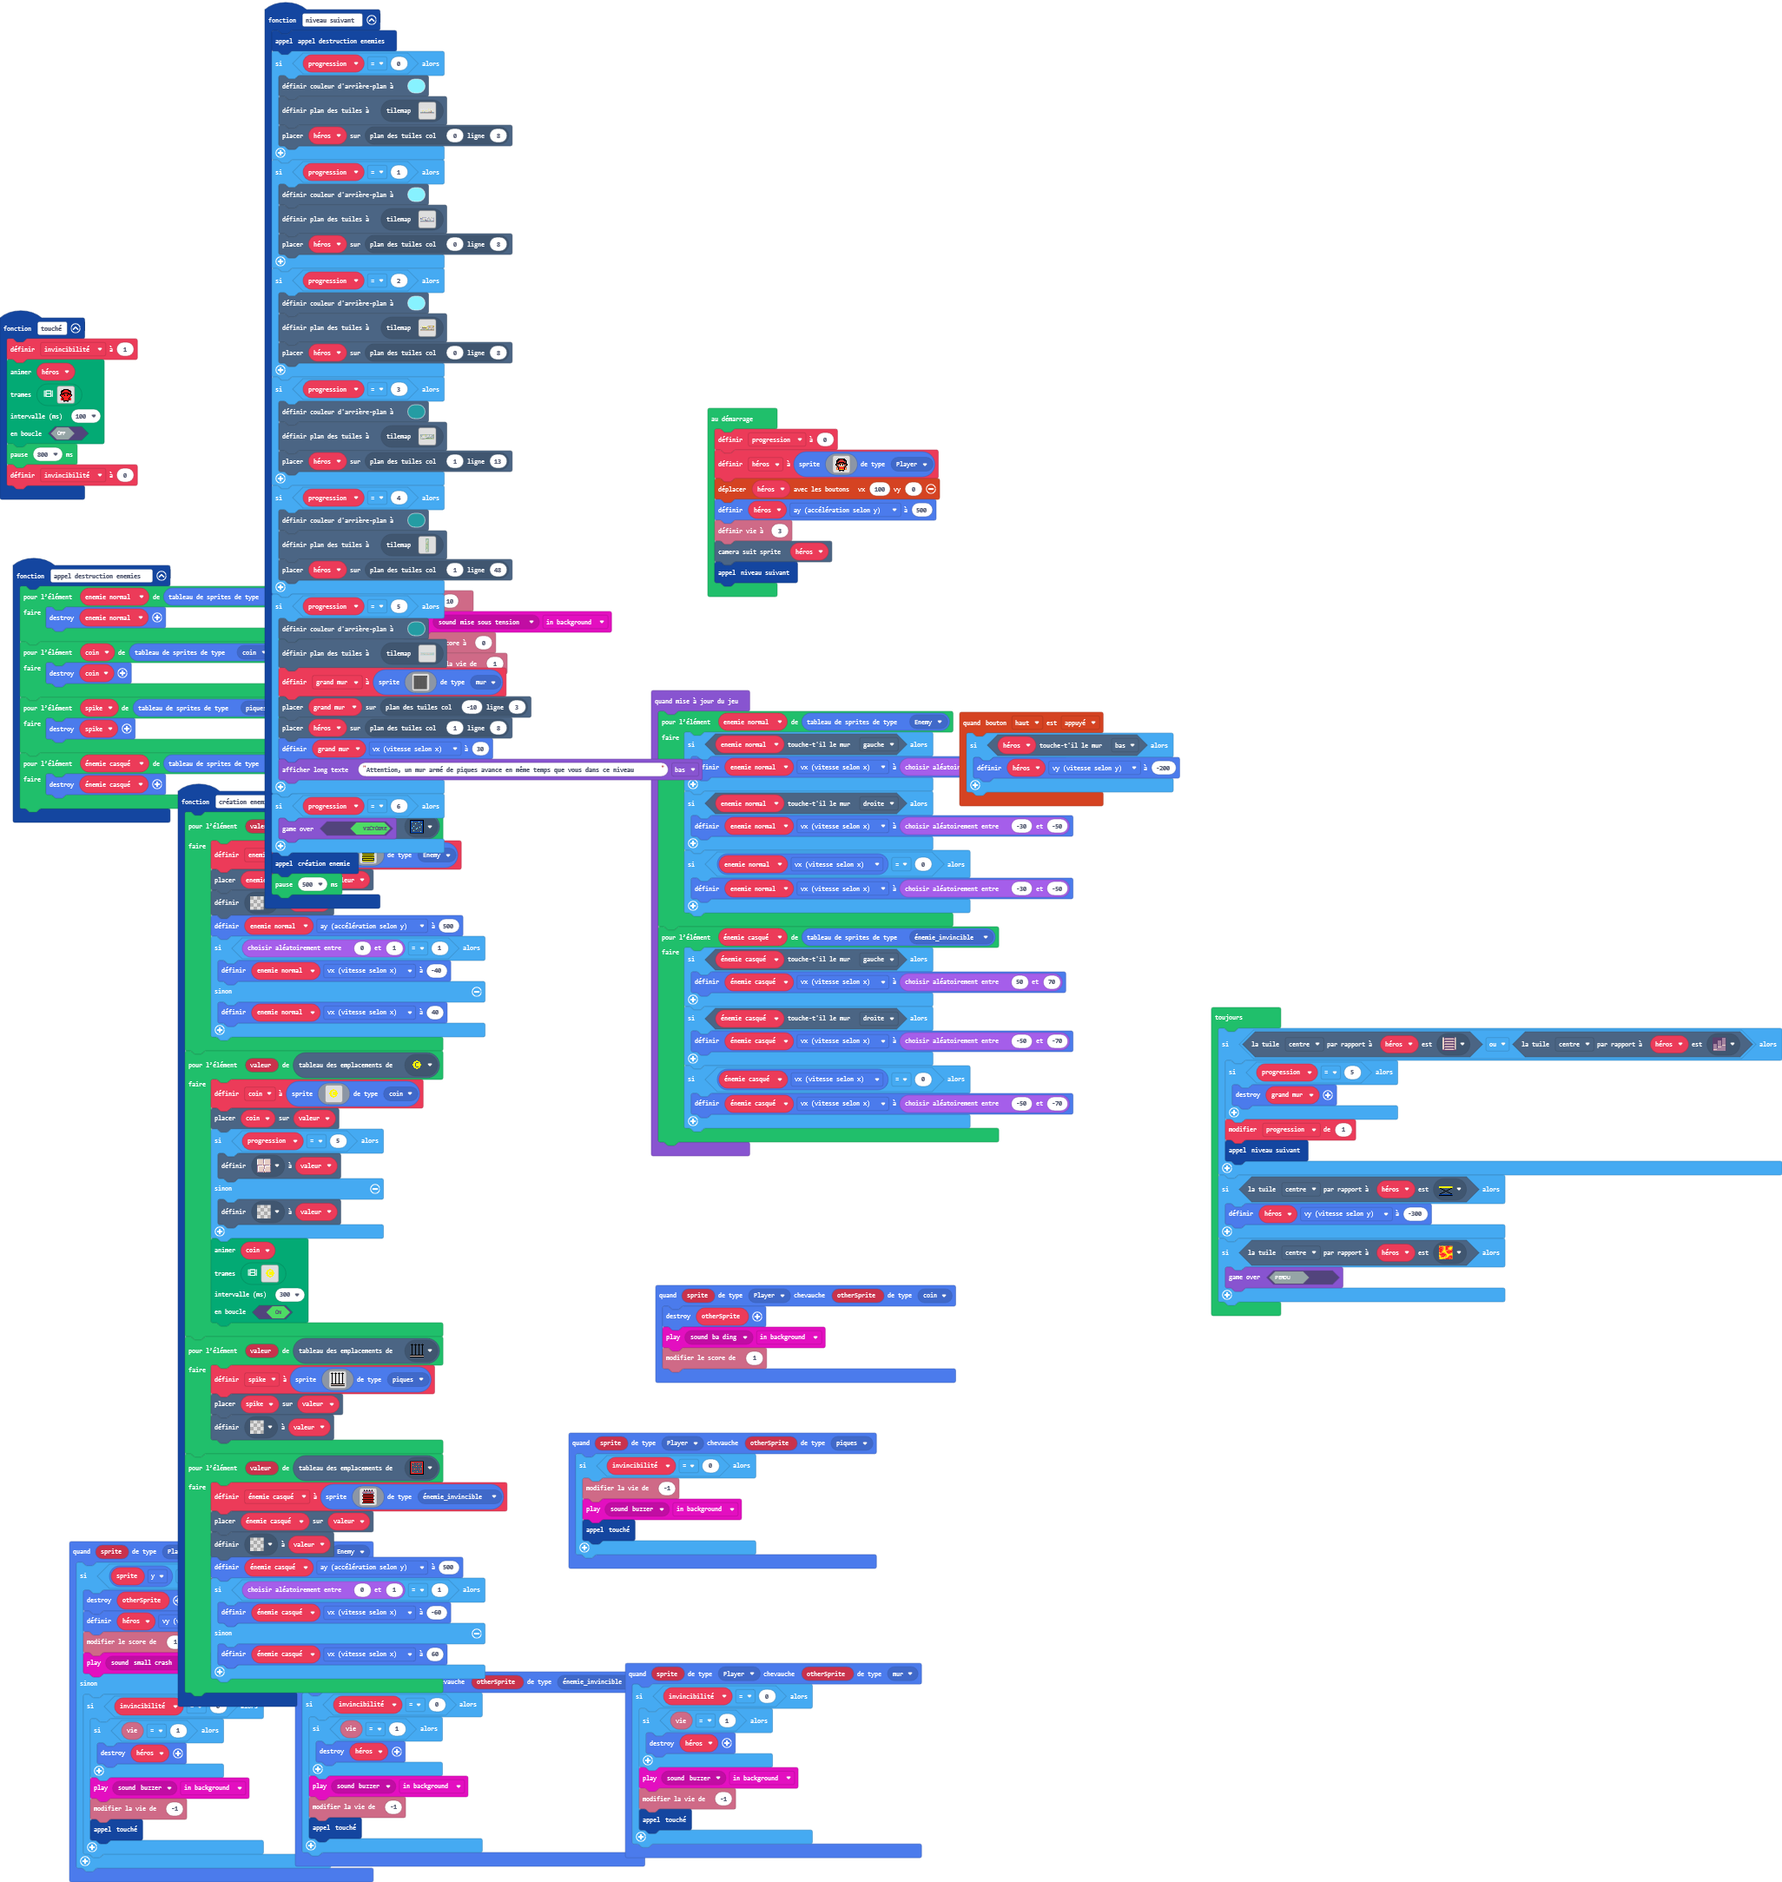
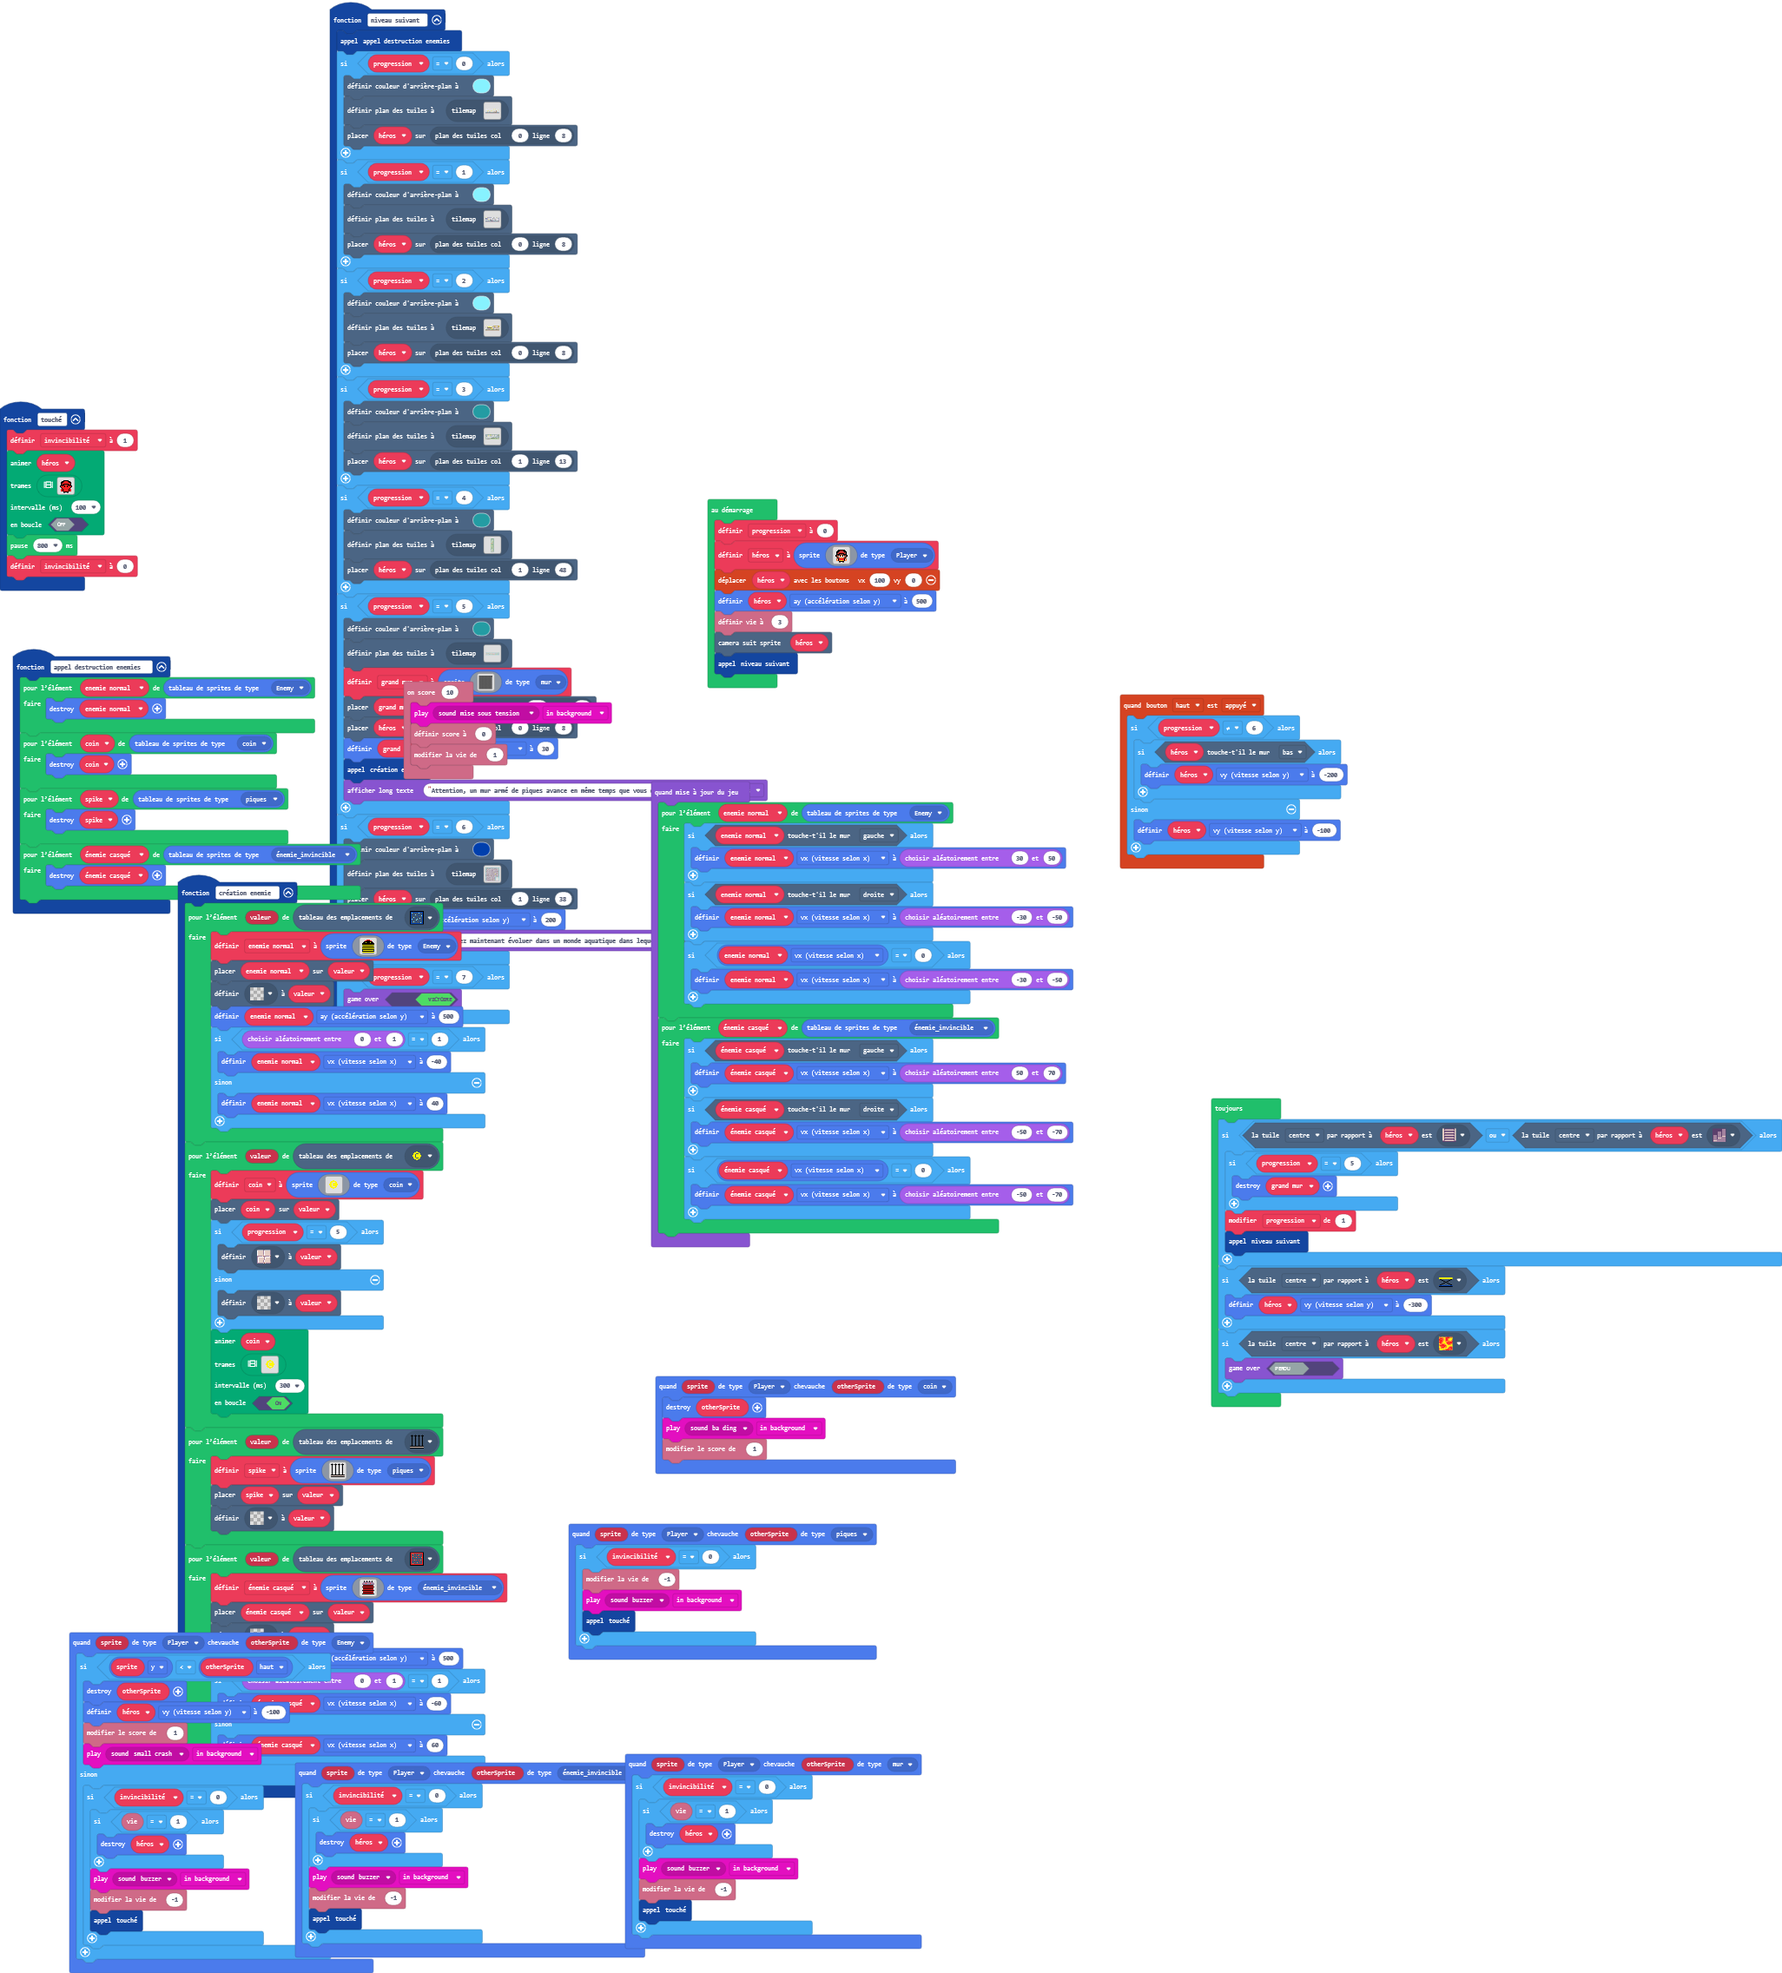
Mise à jour main.blocks, main.ts, tilemap.g.jres, tilemap.g.ts

Changed region(s): [[0.0, 0.0, 0.7797, 0.9894], [0.655, 0.5256, 1.0, 0.7111]]

diff --git a/tilemap.g.ts b/tilemap.g.ts
@@ -23,25 +23,6 @@ namespace myTiles {
 
     helpers._registerFactory("tilemap", function(name: string) {
         switch(helpers.stringTrim(name)) {
-            case "niveau6":
-            case "niveau6":return tiles.createTilemap(hex`1000100000000000000000000000000000000000000000000000000000000000000000000000000000000000000000000000000000000000000000000000000000000000000000000000000000000000000000000000000000000000000000000000000000000000000000000000000000000000000000000000000000000000000000000000000000000000000000000000000000000000000000000000000000000000000000000000000000000000000000000000000000000000000000000000000000000000000000000000000000000000000000000000000000000000000000000000000000000000000000000000000000000000000000000000000000000000`, img`
-. . . . . . . . . . . . . . . . 
-. . . . . . . . . . . . . . . . 
-. . . . . . . . . . . . . . . . 
-. . . . . . . . . . . . . . . . 
-. . . . . . . . . . . . . . . . 
-. . . . . . . . . . . . . . . . 
-. . . . . . . . . . . . . . . . 
-. . . . . . . . . . . . . . . . 
-. . . . . . . . . . . . . . . . 
-. . . . . . . . . . . . . . . . 
-. . . . . . . . . . . . . . . . 
-. . . . . . . . . . . . . . . . 
-. . . . . . . . . . . . . . . . 
-. . . . . . . . . . . . . . . . 
-. . . . . . . . . . . . . . . . 
-. . . . . . . . . . . . . . . . 
-`, [myTiles.transparency16], TileScale.Sixteen);
             case "niveau8":
             case "niveau7":return tiles.createTilemap(hex`1000100000000000000000000000000000000000000000000000000000000000000000000000000000000000000000000000000000000000000000000000000000000000000000000000000000000000000000000000000000000000000000000000000000000000000000000000000000000000000000000000000000000000000000000000000000000000000000000000000000000000000000000000000000000000000000000000000000000000000000000000000000000000000000000000000000000000000000000000000000000000000000000000000000000000000000000000000000000000000000000000000000000000000000000000000000000000`, img`
 . . . . . . . . . . . . . . . . 
@@ -380,8 +361,65 @@ namespace myTiles {
 . . . . . . . . . . . . . . . . 
 . . . . . . . . . . . . . . . . 
 `, [myTiles.transparency16], TileScale.Sixteen);
+            case "niveau21":
+            case "niveau21":return tiles.createTilemap(hex`1000100000000000000000000000000000000000000000000000000000000000000000000000000000000000000000000000000000000000000000000000000000000000000000000000000000000000000000000000000000000000000000000000000000000000000000000000000000000000000000000000000000000000000000000000000000000000000000000000000000000000000000000000000000000000000000000000000000000000000000000000000000000000000000000000000000000000000000000000000000000000000000000000000000000000000000000000000000000000000000000000000000000000000000000000000000000000`, img`
+. . . . . . . . . . . . . . . . 
+. . . . . . . . . . . . . . . . 
+. . . . . . . . . . . . . . . . 
+. . . . . . . . . . . . . . . . 
+. . . . . . . . . . . . . . . . 
+. . . . . . . . . . . . . . . . 
+. . . . . . . . . . . . . . . . 
+. . . . . . . . . . . . . . . . 
+. . . . . . . . . . . . . . . . 
+. . . . . . . . . . . . . . . . 
+. . . . . . . . . . . . . . . . 
+. . . . . . . . . . . . . . . . 
+. . . . . . . . . . . . . . . . 
+. . . . . . . . . . . . . . . . 
+. . . . . . . . . . . . . . . . 
+. . . . . . . . . . . . . . . . 
+`, [myTiles.transparency16], TileScale.Sixteen);
+            case "niveau6":
+            case "niveau6":return tiles.createTilemap(hex`1000100000000000000000000000000000000000000000000000000000000000000000000000000000000000000000000000000000000000000000000000000000000000000000000000000000000000000000000000000000000000000000000000000000000000000000000000000000000000000000000000000000000000000000000000000000000000000000000000000000000000000000000000000000000000000000000000000000000000000000000000000000000000000000000000000000000000000000000000000000000000000000000000000000000000000000000000000000000000000000000000000000000000000000000000000000000000`, img`
+. . . . . . . . . . . . . . . . 
+. . . . . . . . . . . . . . . . 
+. . . . . . . . . . . . . . . . 
+. . . . . . . . . . . . . . . . 
+. . . . . . . . . . . . . . . . 
+. . . . . . . . . . . . . . . . 
+. . . . . . . . . . . . . . . . 
+. . . . . . . . . . . . . . . . 
+. . . . . . . . . . . . . . . . 
+. . . . . . . . . . . . . . . . 
+. . . . . . . . . . . . . . . . 
+. . . . . . . . . . . . . . . . 
+. . . . . . . . . . . . . . . . 
+. . . . . . . . . . . . . . . . 
+. . . . . . . . . . . . . . . . 
+. . . . . . . . . . . . . . . . 
+`, [myTiles.transparency16], TileScale.Sixteen);
+            case "niveau23":
+            case "niveau23":return tiles.createTilemap(hex`1000100002020202020202020202020202020202020000000000000000000000000000020200030303030303030303030303030302000300030000000003000000030002020003000300000300000003000000020200030003030003030303030303030202000000000300030000000000000002020303030003000300030303030300020200000000030003000300000003040202000303030300030000000300030302020003000000000303030303000000020200000300030303000000030003000202000000000300000003000300030302020003030003030303000003000000020200030000000000000000000000000201010101010101010101010101010101`, img`
+2 2 2 2 2 2 2 2 2 2 2 2 2 2 2 2 
+2 . . . . . . . . . . . . . . 2 
+2 . 2 2 2 2 2 2 2 2 2 2 2 2 2 2 
+2 . 2 . 2 . . . . 2 . . . 2 . 2 
+2 . 2 . 2 . . 2 . . . 2 . . . 2 
+2 . 2 . 2 2 . 2 2 2 2 2 2 2 2 2 
+2 . . . . 2 . 2 . . . . . . . 2 
+2 2 2 2 . 2 . 2 . 2 2 2 2 2 . 2 
+2 . . . . 2 . 2 . 2 . . . 2 . 2 
+2 . 2 2 2 2 . 2 . . . 2 . 2 2 2 
+2 . 2 . . . . 2 2 2 2 2 . . . 2 
+2 . . 2 . 2 2 2 . . . 2 . 2 . 2 
+2 . . . . 2 . . . 2 . 2 . 2 2 2 
+2 . 2 2 . 2 2 2 2 . . 2 . . . 2 
+2 . 2 . . . . . . . . . . . . 2 
+2 2 2 2 2 2 2 2 2 2 2 2 2 2 2 2 
+`, [myTiles.transparency16,sprites.builtin.oceanSand2,sprites.builtin.oceanDepths1,sprites.builtin.oceanDepths0,sprites.dungeon.stairNorth], TileScale.Sixteen);
             case "monde2-3":
[2 lines of base64/hex data omitted]
 222222222222222222222222222222222222222222222222222222222222
 .....22..........2............2............2.........2.....2
 .....2............2........2..2............2..222222.22....2
@@ -392,7 +430,50 @@ namespace myTiles {
 .......2.......2..2.......2..22.2.............2..22.22.2...2
 ....2..2...2...22222222..22..22.........222222..222....2...2
 222222222222222222222222222222222222222222222222222222222222
-`, [myTiles.transparency16,sprites.dungeon.floorLight4,sprites.dungeon.stairNorth,sprites.dungeon.collectibleInsignia,myTiles.tile6,sprites.dungeon.hazardLava1], TileScale.Sixteen);
+`, [myTiles.transparency16,sprites.dungeon.floorLight4,sprites.dungeon.collectibleInsignia,myTiles.tile6,sprites.dungeon.hazardLava1,sprites.dungeon.stairLarge], TileScale.Sixteen);
+            case "monde3-3":
+            case "niveau22":return tiles.createTilemap(hex`2800280004040404040404040404040404040404040404040404040404040404040404040404040404040404040600000202020000000000000002000202020202000000000000000000000200000000000000040400020002060200020202020200020000000000000002020202020202020002000200000200000404000200020002000000000200000200020202000202000000000006020000020000000200000004040000000200020202000200000202000000020000000000020202020200020200000206020000040400020002000206020000000200000002000200020202020000000000000002000002000002000404000200020000000200000200000002000002000000000200020202020202020200020000000004040000000200000202000200000002000002020002020002000200000000000000000002020202040402020002020000000002000202020202020202020200000002000002020202020200020000000404000000000202020000020000000000000002000002020000000002000000000002000000020004040200020000020000020200000200020000020200020000020000000002020202020202020200040406020202000200020002000002000002000002000200000202020202020002000202060000000404000000020002000200020202020000000200020002020002020000000000000000020202020204040202000200000000000000000202000200000200000200060200020202020202000000000000040400000000020002020000020000000002020002020002000202000200000000020000020200000404000002000002000002020000000200000000000000020000000000000002000200020002020004040002020002000200000002020000020202020202020202020202000200000002000200000000040400020000020000000200020000020000000200000002000000020000000206020002000202020404000200020202000202020000020000020000000200000000000202020202020200020006020004040000000000000000020000020000020202020202020202020002060606020000000002020000040402020202020202000200020000020200000000000000000200020200020202000000000002000404020000000206020002000200020002000202020202020002000200000000000200020200000004040200020002000200020002000200020002000000020200020002000202000200000000020202040402000200000002000000000000000206020002000000000200020000000200020002000000000404020002020202020202020202000202020200020002020202000200020002000200020202020004040000000000000000000000000002000000000200000200020000020000000002060202000200040402020200000202020202000200000002020202020002000200000000020002020200000000000404000000000002000000020000000202000000000200000000020200040404040404000404040404040002020202020002000200020002000002020002020002000202020400000000000000000000040400000000020000020002000202000200000200020000020000000204000000000000000000000404000202000000020200000002000000020002000200020202020002040000000000000000000004040002000002020202020202020002000200020002000000000200020400000000000000000000040400020202000000000000000000020000000000020202000002000204000000000000000000000404000000020002020202020202020202020202020200000000020002040000000000000000000004040202000200020000000000000000000000020602000202020000020400000000000000000000040400000000000200020202020202020202000200020000000000000204000000000000000000000404000202000202000200000202000000000002000202020002020202040000000000000000000004040002000002000002020000020002000202020002060200020602060400000000000000000000040403020203030303030303030303020303030303020303030303030304030303030303030303050401010101010101010101010101010101010101010101010101010101010101010101010101010101`, img`
+2222222222222222222222222222222222222222
+2...222.......2.22222..........2.......2
+2.2.2.2.22222.2.......22222222.2.2..2..2
+2.2.2.2....2..2.222.22......2..2...2...2
+2...2.222.2..22...2.....22222.22..2.2..2
+2.2.2.2.2...2...2.2.2222.......2..2..2.2
+2.2.2...2..2...2..2....2.22222222.2....2
+2...2..22.2...2..22.22.2.2.........22222
+222.22....2.2222222222...2..222222.2...2
+2....222..2.......2..22....2.....2...2.2
+22.2..2..22..2.2..22.2..2....222222222.2
+2.222.2.2.2..2..2..2.2..222222.2.22....2
+2...2.2.2.2222...2.2.22.22........222222
+222.2........22.2..2..2..2.222222......2
+2....2.22..2....22.22.2.22.2....2..22..2
+2..2..2..22...2.......2.......2.2.2.22.2
+2.22.2.2...22..222222222222.2...2.2....2
+2.2..2...2.2..2...2...2...2...2.2.2.2222
+2.2.222.222..2..2...2.....2222222.2..2.2
+2........2..2..2222222222.2...2....22..2
+22222222.2.2..22........2.22.222.....2.2
+22...2.2.2.2.2.2.222222.2.2.....2.22...2
+22.2.2.2.2.2.2.2.2...22.2.2.22.2....2222
+22.2...2.......2.2.2....2.2...2.2.2....2
+22.2222222222.2222.2.2222.2.2.2.2.2222.2
+2.............2....2..2.2..2....2.22.2.2
+2222..22222.2...22222.2.2....2.222.....2
+2.....2...2...22....2....22.222222.22222
+2.22222.2.2.2.2..22.22.2.2222....2.2...2
+2....2..2.2.22.2..2.2..2...22.22...2.2.2
+2.22...22...2...2.2.2.2222.22..222...2.2
+2.2..22222222.2.2.2.2....2.22.2....22..2
+2.222.........2.....222..2.222...22...22
+2...2.222222222222222....2.22.2.2....2.2
+222.2.2...........2.2.222..22...2.22...2
+2.....2.222222222.2.2......22.222..222.2
+2.22.22.2..22.....2.222.22222.2.2....2.2
+2.2..2..22..2.2.222.2.2.2.2.2...2.22..22
+2.22..........2.....2.......2...2..2...2
+2222222222222222222222222222222222222222
+`, [myTiles.transparency16,sprites.builtin.oceanSand2,sprites.builtin.oceanDepths0,sprites.builtin.coral4,sprites.dungeon.collectibleInsignia,sprites.dungeon.stairLarge,myTiles.tile6], TileScale.Sixteen);
         }
         return null;
     })

diff --git a/main.ts b/main.ts
@@ -32,8 +32,12 @@ sprites.onOverlap(SpriteKind.Player, SpriteKind.piques, function (sprite, otherS
     }
 })
 controller.up.onEvent(ControllerButtonEvent.Pressed, function () {
-    if (héros.isHittingTile(CollisionDirection.Bottom)) {
-        héros.vy = -200
+    if (progression != 6) {
+        if (héros.isHittingTile(CollisionDirection.Bottom)) {
+            héros.vy = -200
+        }
+    } else {
+        héros.vy = -100
     }
 })
 sprites.onOverlap(SpriteKind.Player, SpriteKind.énemie_invincible, function (sprite, otherSprite) {
@@ -607,11 +611,19 @@ function niveau_suivant () {
             ffffffffffffffffffffffffffffffffffffffffffffffffffffffffffffffffffffffffffffffffffffffffffffffffffffffffffffffffffffffffffffffffffffffffffffffffffffffffffffffffffffffffffffffffffffffffffffffffffffffffffffffffffff......f.
             `, SpriteKind.mur)
         tiles.placeOnTile(grand_mur, tiles.getTileLocation(-10, 3))
-        tiles.placeOnTile(héros, tiles.getTileLocation(1, 8))
+        tiles.placeOnTile(héros, tiles.getTileLocation(0, 8))
         grand_mur.vx = 30
+        création_enemie()
         game.showLongText("Attention, un mur armé de piques avance en même temps que vous dans ce niveau", DialogLayout.Bottom)
     }
     if (progression == 6) {
+        scene.setBackgroundColor(8)
+        tiles.setCurrentTilemap(tilemap`monde3-3`)
+        tiles.placeOnTile(héros, tiles.getTileLocation(1, 38))
+        héros.ay = 200
+        game.showLongText("Vous allez maintenant évoluer dans un monde aquatique dans lequel vous pouvez nager", DialogLayout.Bottom)
+    }
+    if (progression == 7) {
         game.gameOver(true)
     }
     création_enemie()
